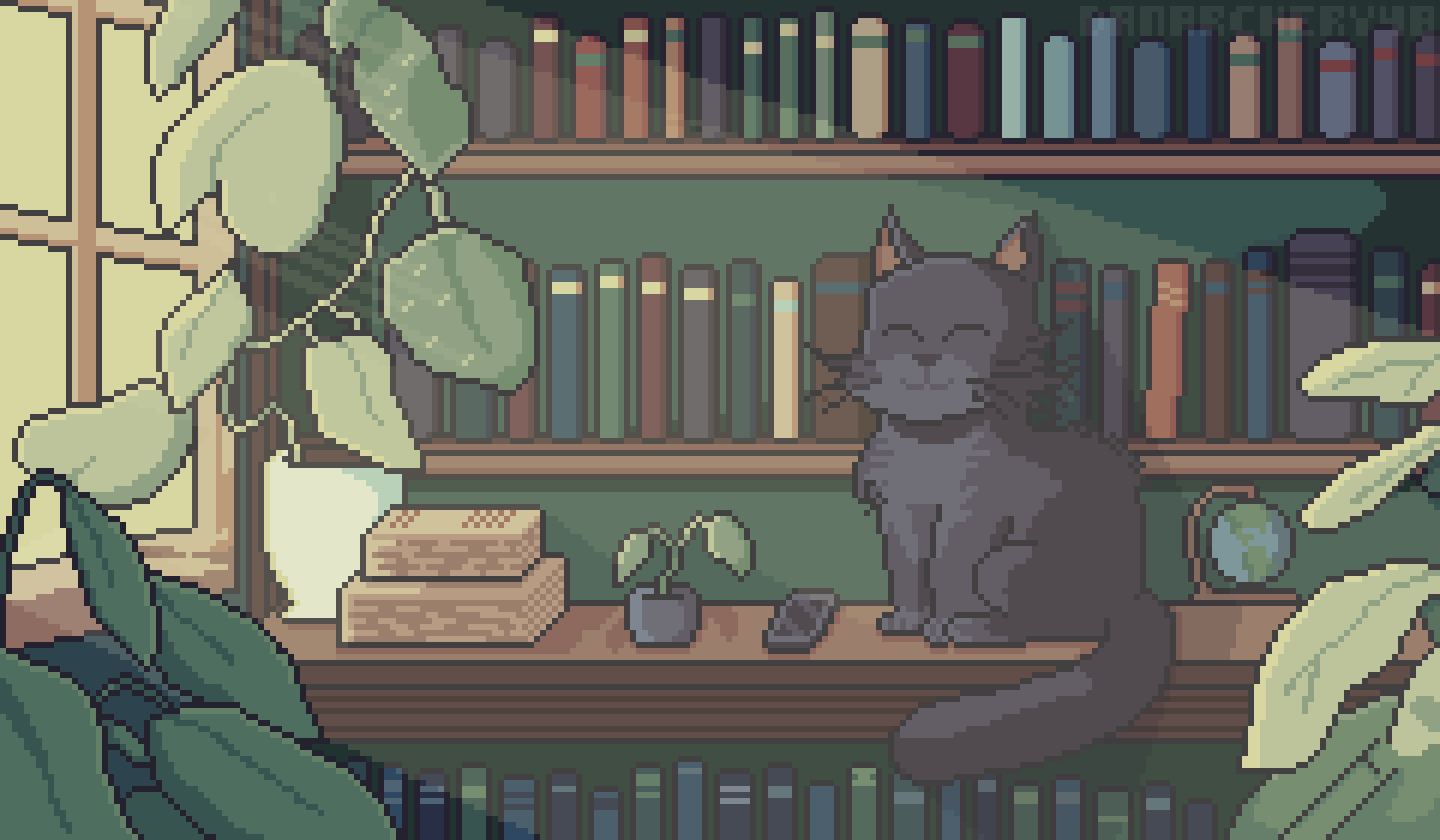
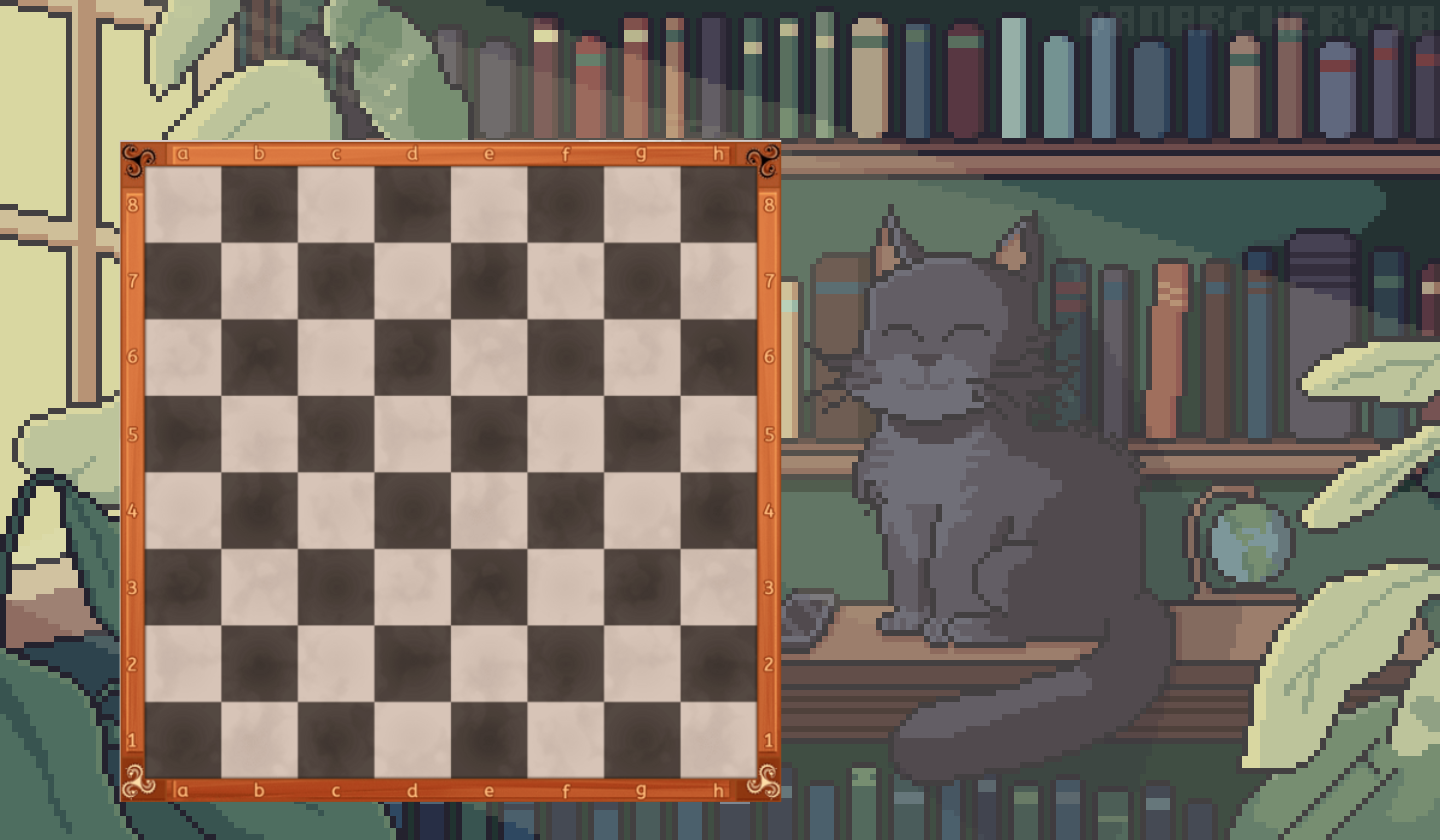
Se implemento la clase screenpartida

diff --git a/Libraries/Control.cpp b/Libraries/Control.cpp
@@ -111,6 +111,8 @@ void clsControl::pressEnter(int* actualScreen){
                                 usuarioN = reinterpret_cast<clsScreenInSesion *>(menu)->getTextbox(0);
                                 reinterpret_cast <clsScreenInSesion *> (menu) -> deleteTextboxString(0);
                                 reinterpret_cast <clsScreenInSesion *> (menu) -> deleteTextboxString(1);
+                                reinterpret_cast <clsScreenInSesion *> (menu) -> setTextboxSelected(0,true);
+                                reinterpret_cast <clsScreenInSesion *> (menu) -> setTextboxSelected(1,false);
                                 cont ++;
                             }
                             else{
@@ -126,7 +128,7 @@ void clsControl::pressEnter(int* actualScreen){
                                 reinterpret_cast <clsScreenInSesion *> (menu) -> deleteTextboxString(0);
                                 reinterpret_cast <clsScreenInSesion *> (menu) -> deleteTextboxString(1);
                                 cont ++;
-            
+                                *actualScreen = 3;
                                 admin->iniciarPartida(usuarioN,usuarioB);
                             }
                             else{

diff --git a/Libraries/Tablero.cpp b/Libraries/Tablero.cpp
@@ -3,7 +3,7 @@
 using namespace std;
 
 clsTablero::clsTablero(){
-    // clsPieza peon1(0,1,'b');
+    clsPeon peon1(0,1,'b');
     // clsPieza peon2(0,1,'b');
     // clsPieza peon3(0,1,'b');
     // clsPieza peon4(0,1,'b');
@@ -11,7 +11,7 @@ clsTablero::clsTablero(){
     // clsPieza peon6(0,1,'b');
     // clsPieza peon7(0,1,'b');
     // clsPieza peon8(0,1,'b');
-    // clsPieza peon1n(0,1,'n');
+    clsPeon peon1n(0,1,'n');
     // clsPieza peon2n(0,1,'n');
     // clsPieza peon3n(0,1,'n');
     // clsPieza peon4n(0,1,'n');
@@ -19,6 +19,13 @@ clsTablero::clsTablero(){
     // clsPieza peon6n(0,1,'n');
     // clsPieza peon7n(0,1,'n');
     // clsPieza peon8n(0,1,'n');
+    clsCasilla b7;
+    clsCasilla b2;
+    b2.setPieza(&peon1);
+    b7.setPieza(&peon1n);
+    matrizCasilla[1][1] = b7;
+    matrizCasilla[6][1] = b2;
+
 }   
 //     clsCasilla a1;
 //     clsCasilla a2;

diff --git a/Libraries/Peon.cpp b/Libraries/Peon.cpp
@@ -1,2 +1,27 @@
 #include "Peon.h"
 
+clsPeon::clsPeon(int x, int y, char c) : clsPieza(x,y,c){
+    firstMovement = true;
+}
+bool clsPeon::testMovement(int x,int y){
+    if(x == posX){
+        if(color = 'b'){
+            if(y == posY + 1){
+                return true;
+            }
+            if(firstMovement && x == posY + 2){
+                return true;
+            }    
+        }
+        if(color = 'n'){
+            if(y == posY - 1){
+                return true;
+            }
+            if(firstMovement && x == posY - 2){
+                return true;
+            }    
+        }
+        
+    }
+    return false;
+}

diff --git a/Libraries/Admin.cpp b/Libraries/Admin.cpp
@@ -45,6 +45,11 @@ clsAdmin::clsAdmin(RenderWindow *w){
     screen[2] = new clsScreen(window);
     screen[2]->setSprite(0,"./Images/backgroundConfig.png");
     control[2] = new clsControl(screen[2],0,0,0,2);
+
+    //Partida
+    screen[3] = new clsScreen(window);
+    screen[3]->setSprite(0,"./Images/backgroundPartida.png");
+    screen[3]->setScaleSprite(0,{0.8,0.8});
 }
 
 void clsAdmin::iniciarPrograma(){

diff --git a/Libraries/ScreenPartida.h b/Libraries/ScreenPartida.h
@@ -1,0 +1,14 @@
+#ifndef SCREENPARTIDA_H
+#define SCREENPARTIDA_H
+
+#include "Screen.h"
+
+class clsScreenPartida : public clsScreen {
+    private:
+        clsPartida *partida;
+    public:
+        clsScreenPartida(RenderWindow *, clsPartida *);
+        void draw();
+};
+#include "ScreenPartida.cpp"
+#endif

diff --git a/Libraries/ScreenPartida.cpp b/Libraries/ScreenPartida.cpp
@@ -1,0 +1,10 @@
+#include "ScreenPartida.h"
+#include<SFML/Graphics.hpp>
+
+clsScreenPartida::clsScreenPartida(RenderWindow *w, clsPartida *p) : clsScreen(w){
+    partida = p;
+}
+
+void clsScreenPartida::draw(){
+    
+}

diff --git a/Libraries/Peon.h b/Libraries/Peon.h
@@ -5,7 +5,10 @@
 
 class clsPeon : public clsPieza{
     private:
+        bool firstMovement;
     public:
+        clsPeon(int,int,char);
+        bool testMovement(int,int);
 };
-
+#include "Peon.cpp"
 #endif

diff --git a/Libraries/Pieza.h b/Libraries/Pieza.h
@@ -19,6 +19,7 @@ class clsPieza{
         int getPosY();
         void setSprite(string);
         char getColor();
+        virtual bool testMovement(int,int) = 0;
 };
 
 #include "Pieza.cpp"

diff --git a/Libraries/Partida.h b/Libraries/Partida.h
@@ -11,6 +11,7 @@ class clsPartida{
     public:
         clsPartida(string, string);
         void mostrarTablero();
+        Sprite getSprite(int,int);
 };
 #include "Partida.cpp"
 #endif

diff --git a/Libraries/Class.h b/Libraries/Class.h
@@ -13,5 +13,6 @@
 
 #include "Screen.h"
 #include "ScreenInSesion.h"
+#include "ScreenPartida.h"
 #include "Control.h"
 #include "Admin.h"
